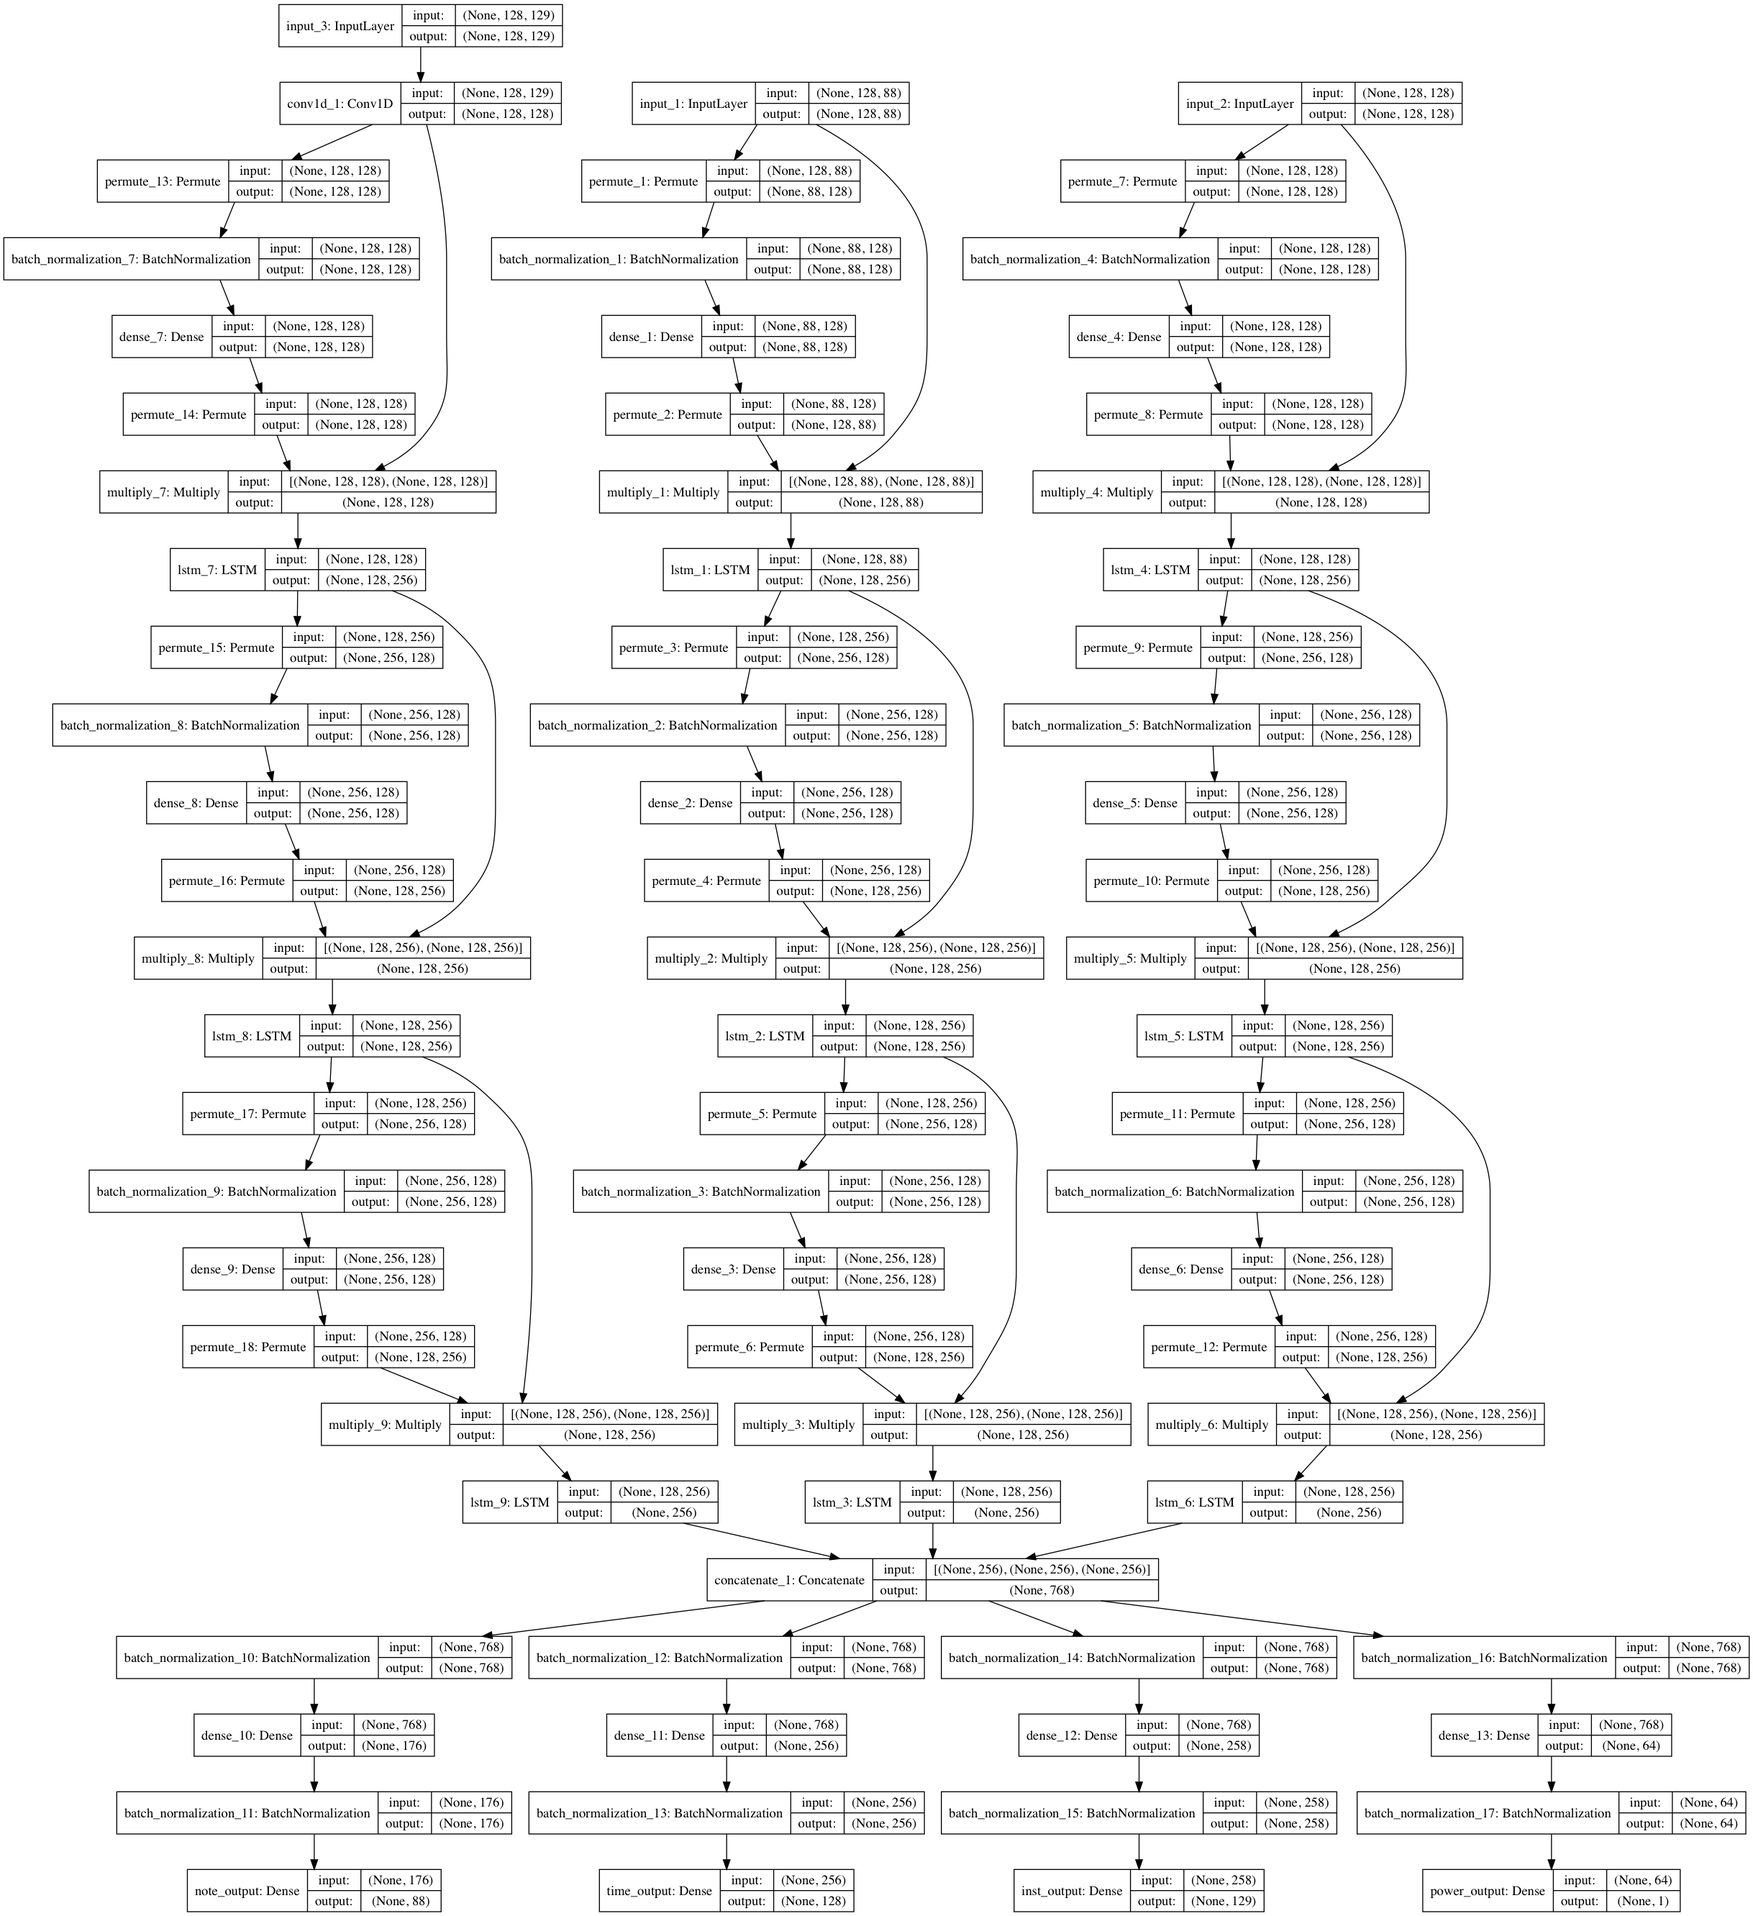
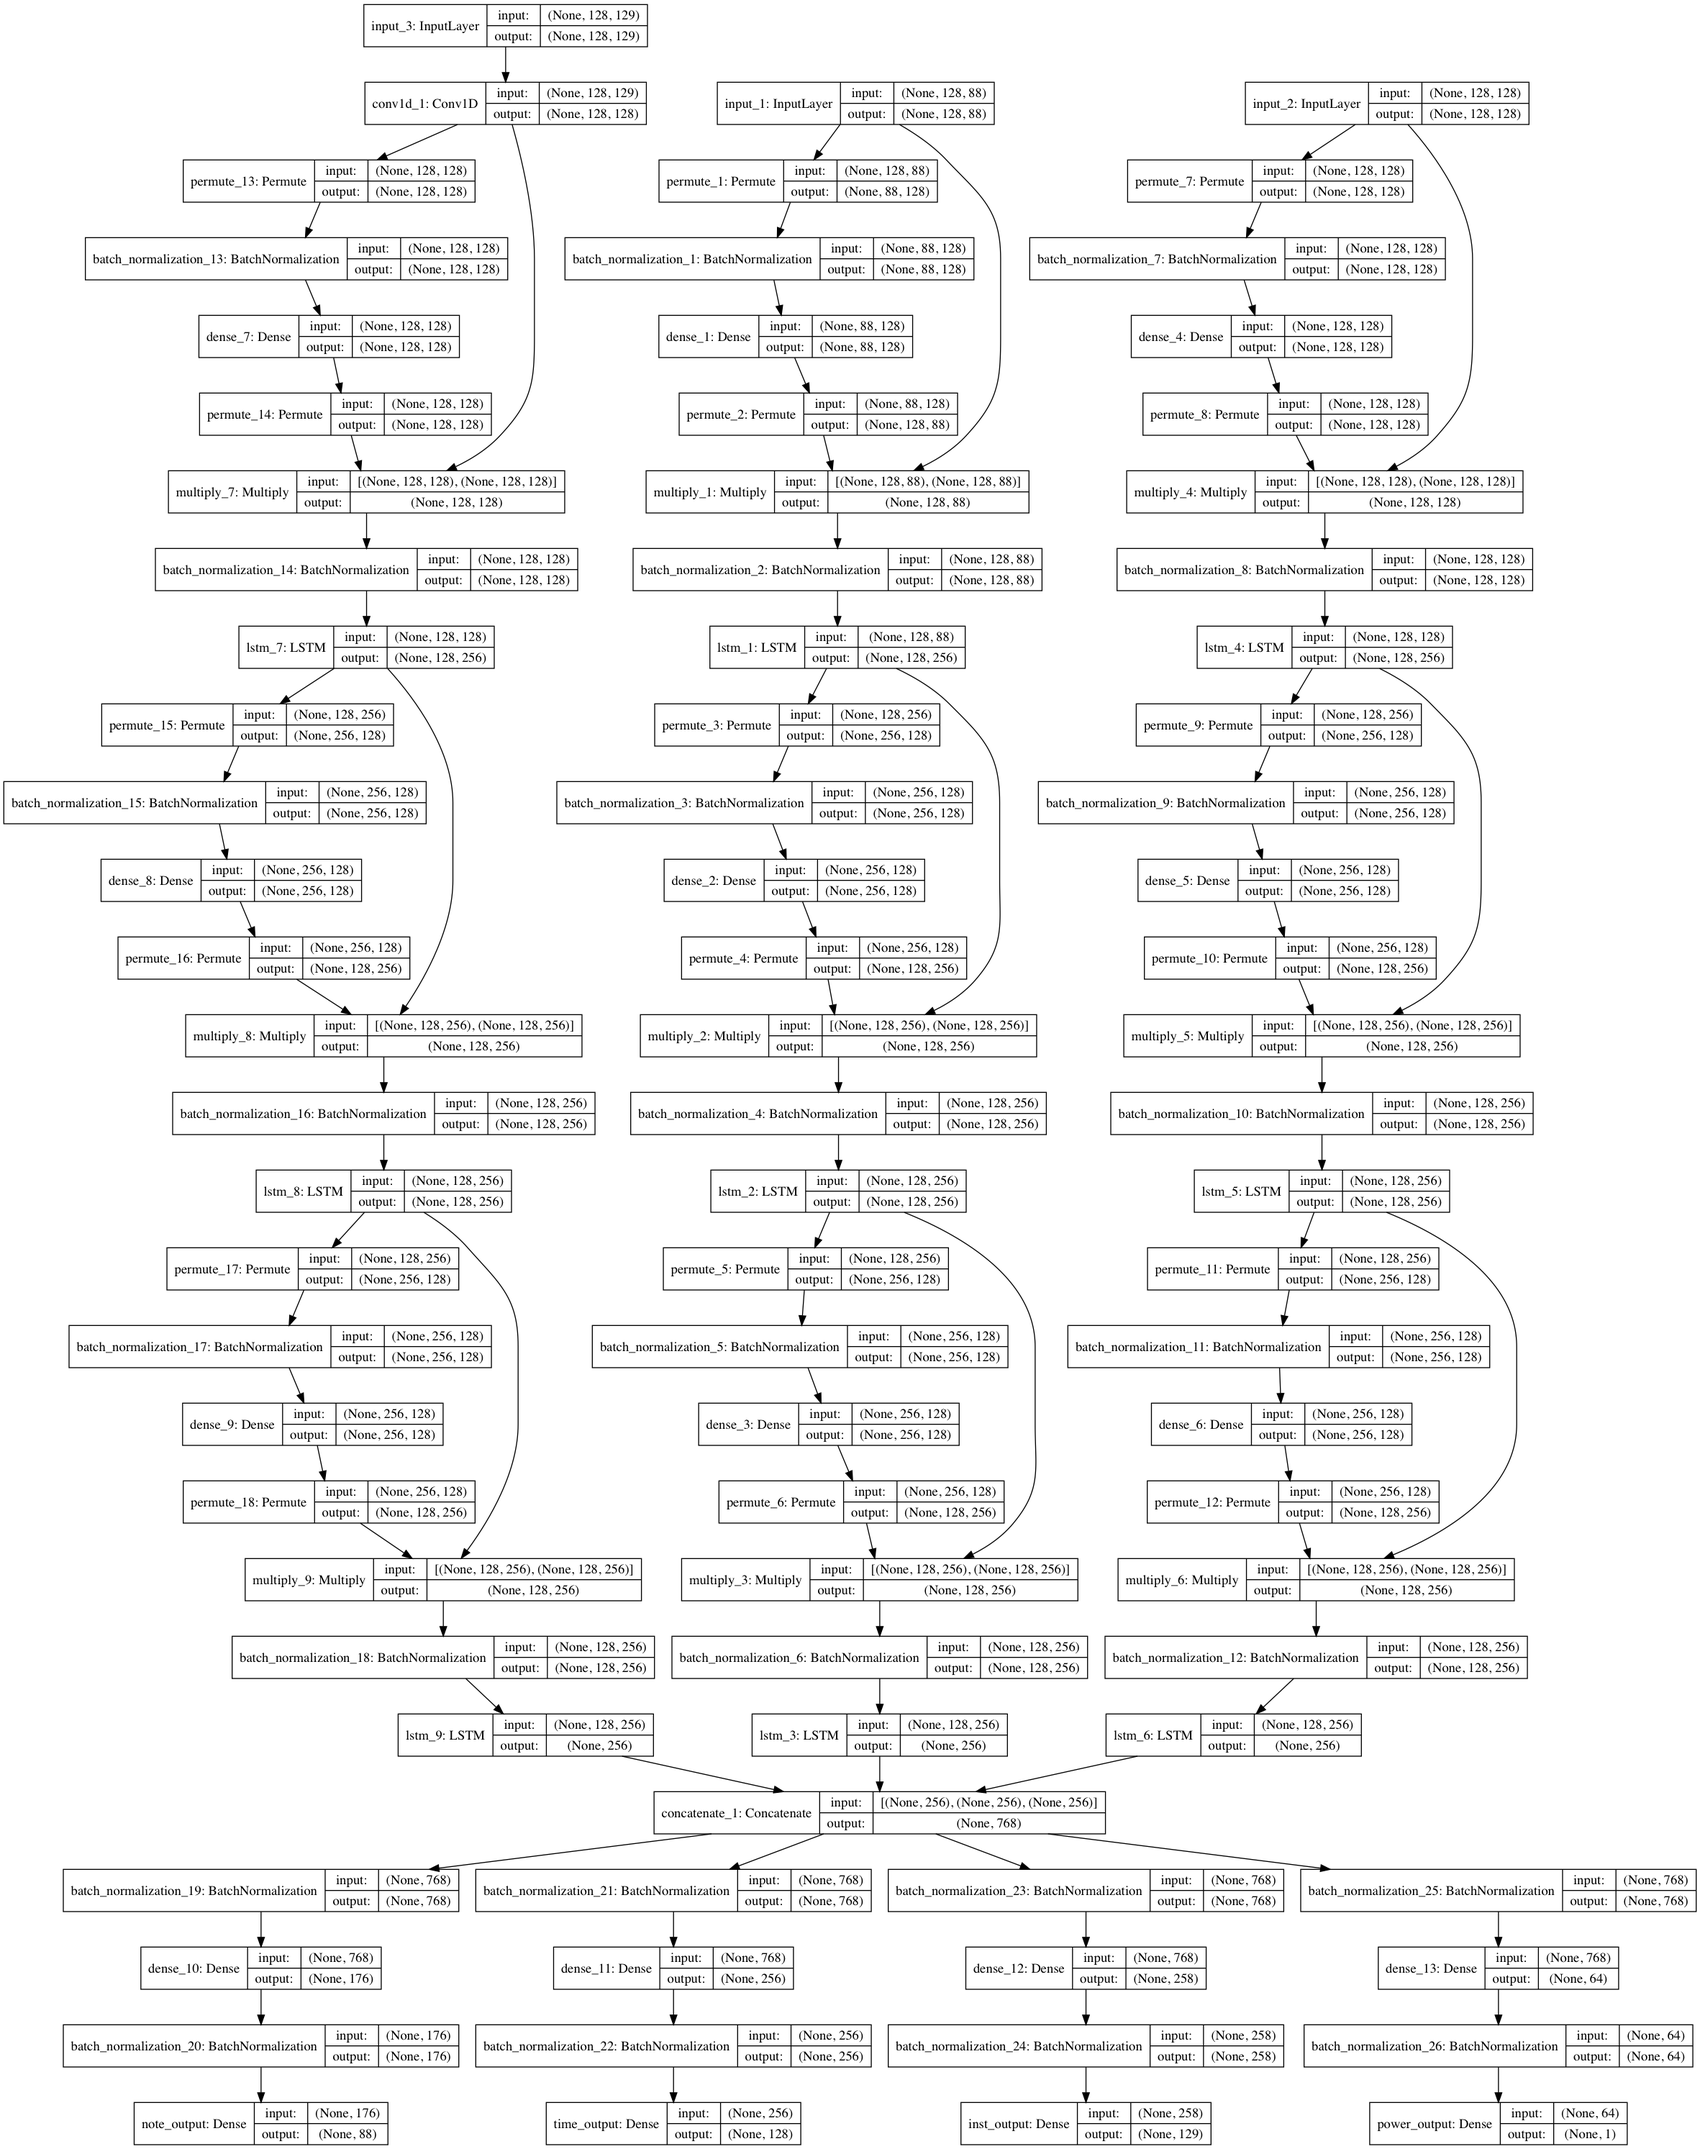
test

Changed region(s): [[0.0309, 0.0, 1.0, 1.0]]

diff --git a/multiple_instruments/train_dir.py b/multiple_instruments/train_dir.py
@@ -226,29 +226,38 @@ def main():
     with tf.device('/gpu:0'):
         noteInput  = Input(shape=(segLen, vecLen))
         noteAcc    = SoftAttentionBlock(noteInput, segLen)
-        noteEncode = LSTM(hidden_note, return_sequences=True, dropout=drop_rate)(noteAcc)
-        noteEncode = SoftAttentionBlock(noteEncode, segLen)
+        noteEncode = BatchNormalization()(noteAcc)
         noteEncode = LSTM(hidden_note, return_sequences=True, dropout=drop_rate)(noteEncode)
         noteEncode = SoftAttentionBlock(noteEncode, segLen)
+        noteEncode = BatchNormalization()(noteEncode)
+        noteEncode = LSTM(hidden_note, return_sequences=True, dropout=drop_rate)(noteEncode)
+        noteEncode = SoftAttentionBlock(noteEncode, segLen)
+        noteEncode = BatchNormalization()(noteEncode)
         noteEncode = LSTM(hidden_note, return_sequences=False, dropout=drop_rate)(noteEncode)
 
     with tf.device('/gpu:1'):
         deltaInput = Input(shape=(segLen, maxdelta))
         deltaAcc   = SoftAttentionBlock(deltaInput, segLen)
-        deltaEncode = LSTM(hidden_delta, return_sequences=True, dropout=drop_rate)(deltaAcc)
-        deltaEncode = SoftAttentionBlock(deltaEncode, segLen)
+        deltaEncode = BatchNormalization()(deltaAcc)
         deltaEncode = LSTM(hidden_delta, return_sequences=True, dropout=drop_rate)(deltaEncode)
         deltaEncode = SoftAttentionBlock(deltaEncode, segLen)
+        deltaEncode = BatchNormalization()(deltaEncode)
+        deltaEncode = LSTM(hidden_delta, return_sequences=True, dropout=drop_rate)(deltaEncode)
+        deltaEncode = SoftAttentionBlock(deltaEncode, segLen)
+        deltaEncode = BatchNormalization()(deltaEncode)
         deltaEncode = LSTM(hidden_delta, return_sequences=False, dropout=drop_rate)(deltaEncode)
 
     with tf.device('/gpu:2'):
         instInput = Input(shape=(segLen, maxinst))
         instEncode   = Conv1D(filters=filter_size, kernel_size=kernel_size, padding='same', input_shape=(segLen, maxinst), activation = 'relu')(instInput)
         instEncode   = SoftAttentionBlock(instEncode, segLen)
+        instEncode   = BatchNormalization()(instEncode)
         instEncode   = LSTM(hidden_inst, return_sequences=True, dropout=drop_rate)(instEncode)
         instEncode   = SoftAttentionBlock(instEncode, segLen)
+        instEncode   = BatchNormalization()(instEncode)
         instEncode   = LSTM(hidden_inst, return_sequences=True, dropout=drop_rate)(instEncode)
         instEncode   = SoftAttentionBlock(instEncode, segLen)
+        instEncode   = BatchNormalization()(instEncode)
         instEncode   = LSTM(hidden_inst, return_sequences=False, dropout=drop_rate)(instEncode)
 
     with tf.device('/gpu:3'):

diff --git a/multiple_instruments/load.py b/multiple_instruments/load.py
@@ -43,29 +43,38 @@ print('Build model...')
 with tf.device('/gpu:0'):
     noteInput  = Input(shape=(segLen, vecLen))
     noteAcc    = SoftAttentionBlock(noteInput, segLen)
-    noteEncode = LSTM(hidden_note, return_sequences=True, dropout=drop_rate)(noteAcc)
-    noteEncode = SoftAttentionBlock(noteEncode, segLen)
+    noteEncode = BatchNormalization()(noteAcc)
     noteEncode = LSTM(hidden_note, return_sequences=True, dropout=drop_rate)(noteEncode)
     noteEncode = SoftAttentionBlock(noteEncode, segLen)
+    noteEncode = BatchNormalization()(noteEncode)
+    noteEncode = LSTM(hidden_note, return_sequences=True, dropout=drop_rate)(noteEncode)
+    noteEncode = SoftAttentionBlock(noteEncode, segLen)
+    noteEncode = BatchNormalization()(noteEncode)
     noteEncode = LSTM(hidden_note, return_sequences=False, dropout=drop_rate)(noteEncode)
 
 with tf.device('/gpu:1'):
     deltaInput = Input(shape=(segLen, maxdelta))
     deltaAcc   = SoftAttentionBlock(deltaInput, segLen)
-    deltaEncode = LSTM(hidden_delta, return_sequences=True, dropout=drop_rate)(deltaAcc)
-    deltaEncode = SoftAttentionBlock(deltaEncode, segLen)
+    deltaEncode = BatchNormalization()(deltaAcc)
     deltaEncode = LSTM(hidden_delta, return_sequences=True, dropout=drop_rate)(deltaEncode)
     deltaEncode = SoftAttentionBlock(deltaEncode, segLen)
+    deltaEncode = BatchNormalization()(deltaEncode)
+    deltaEncode = LSTM(hidden_delta, return_sequences=True, dropout=drop_rate)(deltaEncode)
+    deltaEncode = SoftAttentionBlock(deltaEncode, segLen)
+    deltaEncode = BatchNormalization()(deltaEncode)
     deltaEncode = LSTM(hidden_delta, return_sequences=False, dropout=drop_rate)(deltaEncode)
 
 with tf.device('/gpu:2'):
     instInput = Input(shape=(segLen, maxinst))
     instEncode   = Conv1D(filters=filter_size, kernel_size=kernel_size, padding='same', input_shape=(segLen, maxinst), activation = 'relu')(instInput)
     instEncode   = SoftAttentionBlock(instEncode, segLen)
+    instEncode   = BatchNormalization()(instEncode)
     instEncode   = LSTM(hidden_inst, return_sequences=True, dropout=drop_rate)(instEncode)
     instEncode   = SoftAttentionBlock(instEncode, segLen)
+    instEncode   = BatchNormalization()(instEncode)
     instEncode   = LSTM(hidden_inst, return_sequences=True, dropout=drop_rate)(instEncode)
     instEncode   = SoftAttentionBlock(instEncode, segLen)
+    instEncode   = BatchNormalization()(instEncode)
     instEncode   = LSTM(hidden_inst, return_sequences=False, dropout=drop_rate)(instEncode)
 
 with tf.device('/gpu:3'):

diff --git a/multiple_instruments/summary.py b/multiple_instruments/summary.py
@@ -43,29 +43,38 @@ print('Build model...')
 with tf.device('/gpu:0'):
     noteInput  = Input(shape=(segLen, vecLen))
     noteAcc    = SoftAttentionBlock(noteInput, segLen)
-    noteEncode = LSTM(hidden_note, return_sequences=True, dropout=drop_rate)(noteAcc)
-    noteEncode = SoftAttentionBlock(noteEncode, segLen)
+    noteEncode = BatchNormalization()(noteAcc)
     noteEncode = LSTM(hidden_note, return_sequences=True, dropout=drop_rate)(noteEncode)
     noteEncode = SoftAttentionBlock(noteEncode, segLen)
+    noteEncode = BatchNormalization()(noteEncode)
+    noteEncode = LSTM(hidden_note, return_sequences=True, dropout=drop_rate)(noteEncode)
+    noteEncode = SoftAttentionBlock(noteEncode, segLen)
+    noteEncode = BatchNormalization()(noteEncode)
     noteEncode = LSTM(hidden_note, return_sequences=False, dropout=drop_rate)(noteEncode)
 
 with tf.device('/gpu:1'):
     deltaInput = Input(shape=(segLen, maxdelta))
     deltaAcc   = SoftAttentionBlock(deltaInput, segLen)
-    deltaEncode = LSTM(hidden_delta, return_sequences=True, dropout=drop_rate)(deltaAcc)
-    deltaEncode = SoftAttentionBlock(deltaEncode, segLen)
+    deltaEncode = BatchNormalization()(deltaAcc)
     deltaEncode = LSTM(hidden_delta, return_sequences=True, dropout=drop_rate)(deltaEncode)
     deltaEncode = SoftAttentionBlock(deltaEncode, segLen)
+    deltaEncode = BatchNormalization()(deltaEncode)
+    deltaEncode = LSTM(hidden_delta, return_sequences=True, dropout=drop_rate)(deltaEncode)
+    deltaEncode = SoftAttentionBlock(deltaEncode, segLen)
+    deltaEncode = BatchNormalization()(deltaEncode)
     deltaEncode = LSTM(hidden_delta, return_sequences=False, dropout=drop_rate)(deltaEncode)
 
 with tf.device('/gpu:2'):
     instInput = Input(shape=(segLen, maxinst))
     instEncode   = Conv1D(filters=filter_size, kernel_size=kernel_size, padding='same', input_shape=(segLen, maxinst), activation = 'relu')(instInput)
     instEncode   = SoftAttentionBlock(instEncode, segLen)
+    instEncode   = BatchNormalization()(instEncode)
     instEncode   = LSTM(hidden_inst, return_sequences=True, dropout=drop_rate)(instEncode)
     instEncode   = SoftAttentionBlock(instEncode, segLen)
+    instEncode   = BatchNormalization()(instEncode)
     instEncode   = LSTM(hidden_inst, return_sequences=True, dropout=drop_rate)(instEncode)
     instEncode   = SoftAttentionBlock(instEncode, segLen)
+    instEncode   = BatchNormalization()(instEncode)
     instEncode   = LSTM(hidden_inst, return_sequences=False, dropout=drop_rate)(instEncode)
 
 with tf.device('/gpu:3'):
